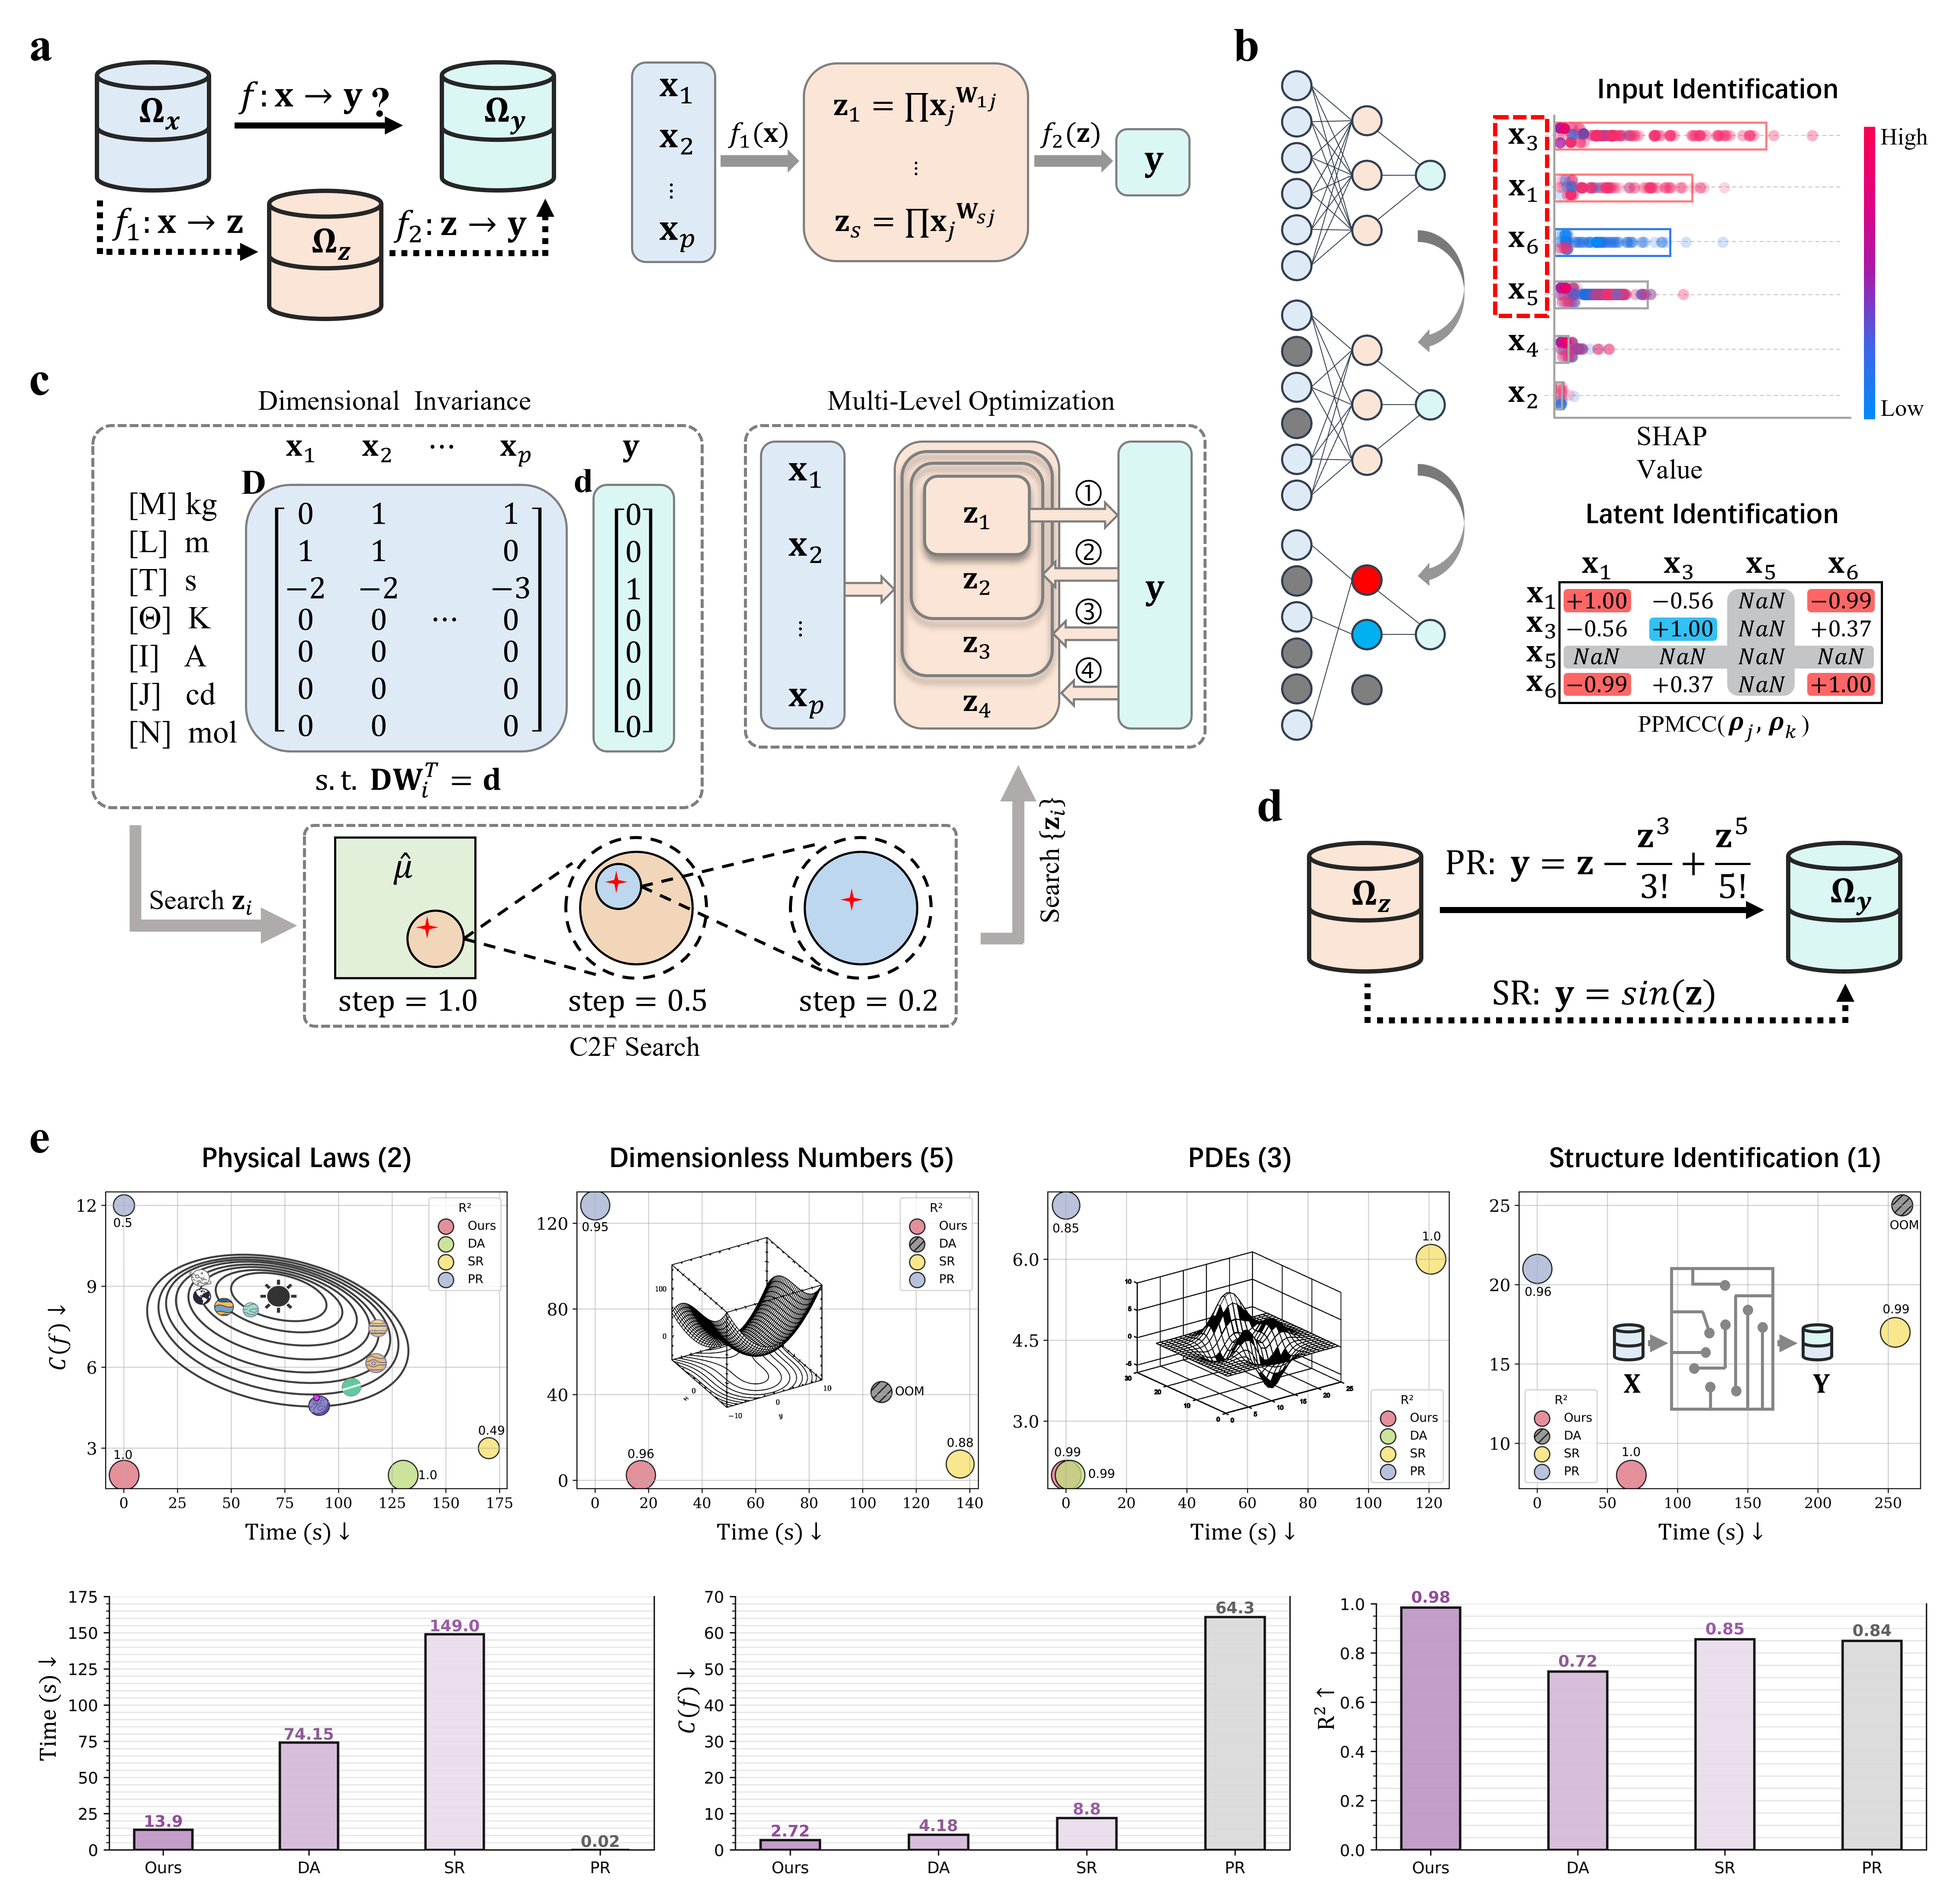
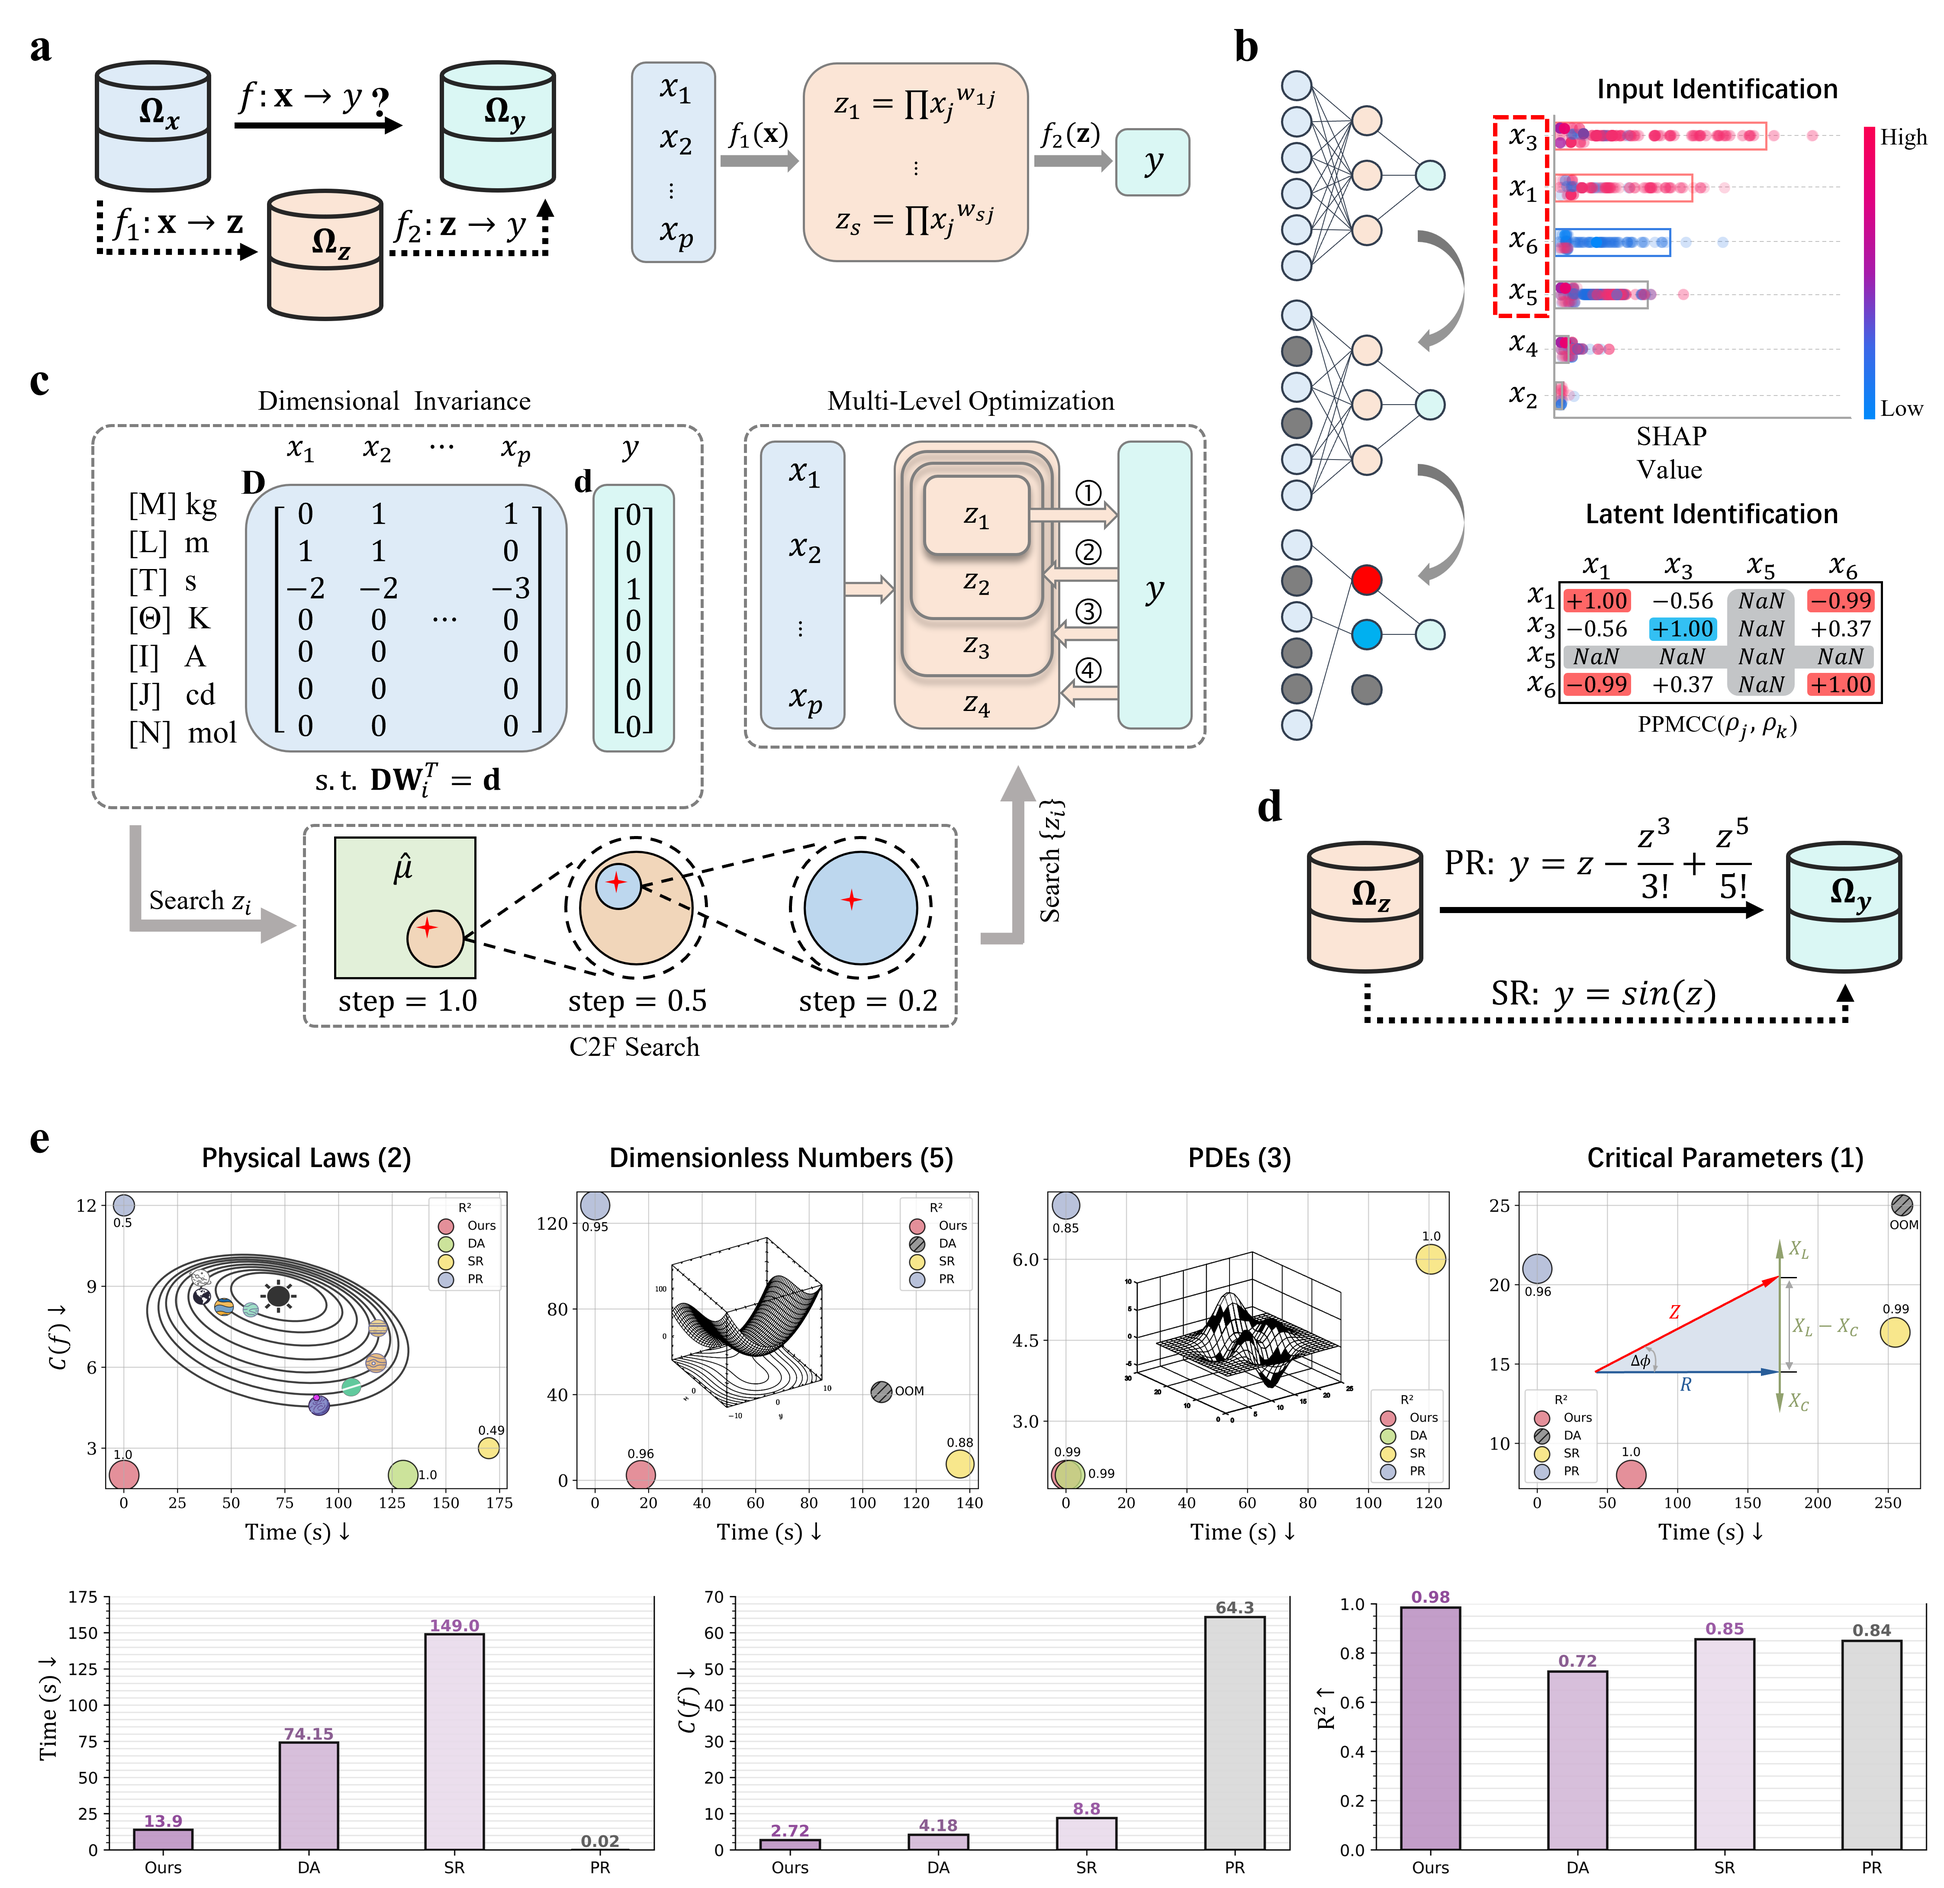
title

diff --git a/README.md b/README.md
@@ -1,4 +1,4 @@
-# Data-Driven Scientific Discovery with Buckingham $\Pi$ Theorem and Taylor's Theorem
+# Accelerating Data-Driven Scientific Discovery through Buckingham $\Pi$ Theorem and Taylor's Theorem
 
 <div>
     <img src="docs/fig1.png" style="display: inline-block; width: 600px;">
@@ -8,15 +8,15 @@
 
 Our proposed method, FIND (Formulas IN Data), is a novel data-driven approach for discovering implicit mathematical formulas from diverse datasets.
 
-**Explainable Structure.** Inspired by the Buckingham $\Pi$ theorem and Taylor's theorem, FIND introduces a two-level explainable structure:
-- Based on the $\Pi$ theorem, a latent layer is designed to discover key latent variables and achieve data dimensionality reduction.
-- Based on Taylor's theorem, an expression layer is designed to discover functional relationships between latent variables and outputs, using polynomials as temporary approximations of the original function.
+**Explainable Structure.** Inspired by the Buckingham $\Pi$ theorem and Taylor's theorem, FIND introduces a two-stage explainable structure:
+- Based on the $\Pi$ theorem, a latent layer is designed to discover the latent variables and achieve dimensionality reduction.
+- Based on Taylor's theorem, an expression layer is designed to discover the relationship between the latent variables and the output, using polynomials as temporary approximations of the target function.
 
 **Structure Identification.** We conducted a prior analysis on the dataset to identify some structural information.
 - Input Identification: We employ SHAP values to quantify input feature contributions, retaining only high-impact inputs to effectively reduce the search space.
 - Latent Identification: We propose a latent structure identification method tailored for dense datasets, which can directly estimate relevant inputs, the number of latent variables, the connection relationships between inputs and latent variables, as well as weight ratios estimation based on the dataset.
 
-**Parameter Constraint.** We constrain the search space using dimensional analysis, dataset patterns, and model architecture.
+**Parameter Constraints.** We constrain the search space using dimensional analysis, dataset patterns, and model architecture.
 - Dimensional Invariance: We perform dimensional analysis on variables to constrain the parameter search space through unit consistency requirements, thereby deriving physically meaningful expressions.
 - Structural Constraints: We impose constraints on the model from data instance characteristics, weight equivalence, and parameter sparsity, which significantly reduces the search space.
 
@@ -52,7 +52,7 @@ All datasets used in this paper are available in [dataset/dataset.yaml](dataset/
     <img src="docs/fig3.png" style="display: inline-block; width: 600px;">
 </div>
 
-### 3. PDE Discovery
+### 3. PDEs Discovery
 
     python dataset/pde_spring.py
     python main.py -p opt/pde_spring.yaml
@@ -61,7 +61,7 @@ All datasets used in this paper are available in [dataset/dataset.yaml](dataset/
     <img src="docs/fig4.png" style="display: inline-block; width: 600px;">
 </div>
 
-### 4. Latent Structure Identification
+### 4. Critical Parameters Identification
 
     python dataset/rlc.py
     python identify_latent.py
